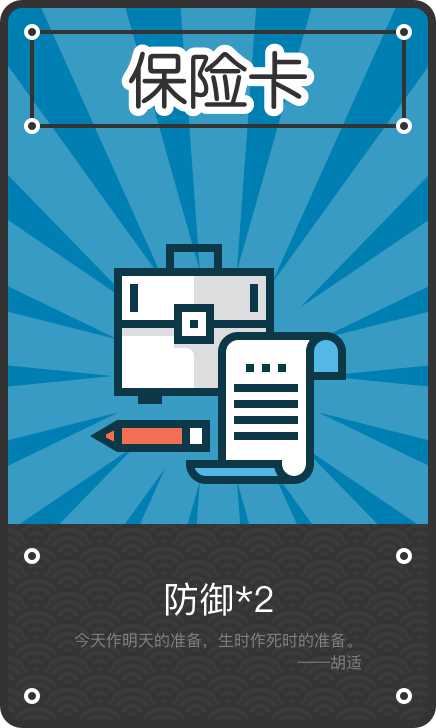
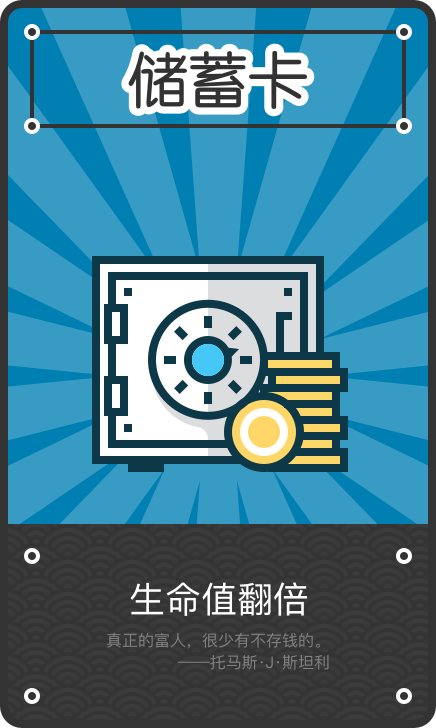
完成课程后的弹窗界面

Changed region(s): [[0.2087, 0.3324, 0.805, 0.6648], [0.2087, 0.7857, 0.8349, 0.9368], [0.2683, 0.0604, 0.5963, 0.1813]]

diff --git a/assets7Intro/component/course/GetReword.js b/assets7Intro/component/course/GetReword.js
@@ -9,30 +9,33 @@ const GetReward = React.createClass({
     getInitialState: function() {
         console.log('123');
         return {
-          content: this.props.content
+            content: this.props.content,
+            lockPic: [
+                "./assets/image/course/card_1.png",
+                "./assets/image/course/card_2.png",
+                "./assets/image/course/card_3.png",
+                "./assets/image/course/card_4.png",
+                "./assets/image/course/card_5.png",
+                "./assets/image/course/card_6.png",
+                "./assets/image/course/card_7.png",
+            ],
         };
     },
 
     componentWillMount() {
-        console.log(Dimensions.getWidthScale());
-        console.log('22222211');
-        console.log(Dimensions);
+        let lessonId = this.props.params.lessonId;
+        console.log(lessonId)
     },
 
 
     handleClick() {
-        // this.setState({liked: !this.state.liked});
-        console.log(screenHeight)
-        console.log('关闭界面1111');
         location.hash = "/select";
     },
     // style = {fullbg}
     render() {
         return(
             <div className="bg-ground" style = {{backgroundImage: 'url("./assets7Intro/image/course/bg_1.png")',width: Dimensions.getWindowHeight(), height: Dimensions.getWindowHeight()}}  onClick={this.handleClick}>
-                <img className="reward-pic" src={this.state.content}/>
-                <div className="reward-pic">123</div>
-                <div className="reward-pic">123</div>
+                <img className="reward-pic" src={this.state.lockPic[this.props.params.lessonId]}/>
             </div>
         )
     }

diff --git a/assets7Intro/component/course/LessonBar.js b/assets7Intro/component/course/LessonBar.js
@@ -17,10 +17,22 @@ const LessonBar = React.createClass({
                 '已完成'
             ],
             lockPic: [
-                "./assets/image/course/card_1.png"
+                "./assets/image/course/card_1.png",
+                "./assets/image/course/card_2.png",
+                "./assets/image/course/card_3.png",
+                "./assets/image/course/card_4.png",
+                "./assets/image/course/card_5.png",
+                "./assets/image/course/card_6.png",
+                "./assets/image/course/card_7.png",
             ],
             unlockPic: [
-                "./assets/image/course/card_2.png"
+                "./assets/image/course/card_1.png",
+                "./assets/image/course/card_2.png",
+                "./assets/image/course/card_3.png",
+                "./assets/image/course/card_4.png",
+                "./assets/image/course/card_5.png",
+                "./assets/image/course/card_6.png",
+                "./assets/image/course/card_7.png",
             ],
             typePic: [
                 "./assets/image/course/indWrong.png",

diff --git a/assets7Intro/component/course/CourseSelect.js b/assets7Intro/component/course/CourseSelect.js
@@ -136,17 +136,17 @@ const CourseSelect = React.createClass({
     },
 
     renderTreasure() {
-        return (<div onClick={this.openTreasure}></div>)
+        return (<div onClick={this.openTreasure}>123</div>)
     },
 
     openTreasure() {
         console.log('click');
-        location.hash = '/getReward';
+        location.hash = '/getReward/' + 1;
 
         // for (let i in this.state.haveOpen) {
         //     if(i === 'treasure2') {
         //         Material.openTreasure().always( (data) => {
-        //             //弹出打开宝箱的界面
+        //             //弹出打开宝箱的界面1
         //             console.log(data)
         //         })
         //     }

diff --git a/assets7Intro/InnerRouter.js b/assets7Intro/InnerRouter.js
@@ -25,7 +25,7 @@ let InnerRouter = React.createClass({
                     <Route path="/select" component={CourseSelect}/>
                     <Route path="/payPage" component={PayPage}/>
                     <Route path="/course/:courseId" component={ListenCourse}/>
-                    <Route path="/getReward" component={GetReward}/>
+                    <Route path="/getReward/:lessonId" component={GetReward}/>
                     {/*<Route path="/FMView" component={FMView}/>*/}
                 </Route>
             </Router>

diff --git a/assets7Intro/component/course/ListenCourse.js b/assets7Intro/component/course/ListenCourse.js
@@ -272,6 +272,11 @@ const ListenCourse = React.createClass({
         //发送修改1
         Material.finishWork(1, this.state.lessons[lessonIndex].subs[index].subjectid).always( (data) => {
         })
+        //如果最后一课作业完成了.并且当前章节还没有完成,就弹出成就卡
+        if (this.props.location.query.name !== '2' && questions[questions.length-1].process === true) {
+            console.log('弹出成就卡')
+            location.hash = '/getReward' + 1;
+        }
     },
 
     /**
